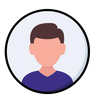
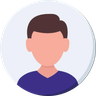
Index and practice page fixed, testimonial image fixed and practice page heading fixed -v150

Changed region(s): [[0.0312, 0.0625, 1.0, 1.0]]

diff --git a/index.html b/index.html
@@ -277,8 +277,8 @@
       // assets/avatar-girl.png, resized copies of his uploads for the
       // 48px display). They fill the coloured circle, which stays
       // behind them as the frame.
-      var BOY_IMG = '<img src="assets/avatar-boy.png" alt="" decoding="async" style="width:100%;height:100%;border-radius:50%;object-fit:cover;display:block">';
-      var GIRL_IMG = '<img src="assets/avatar-girl.png" alt="" decoding="async" style="width:100%;height:100%;border-radius:50%;object-fit:cover;display:block">';
+      var BOY_IMG = '<img src="assets/avatar-boy.png?v=1" alt="" decoding="async" style="width:100%;height:100%;border-radius:50%;object-fit:cover;display:block">';
+      var GIRL_IMG = '<img src="assets/avatar-girl.png?v=1" alt="" decoding="async" style="width:100%;height:100%;border-radius:50%;object-fit:cover;display:block">';
       var slides = list.map(function (t, i) {
         var s = document.createElement("div");
         s.className = "t-slide";

diff --git a/practice.html b/practice.html
@@ -202,6 +202,13 @@ body.tab-hidden #view-test > *:not(.modal-backdrop) {
    back-to-top button stays visible during the test instead. */
 body.test-active .wa-float { display: none; }
 
+/* During a test: hide the page header ("Practice Tests / Test
+   Yourself / Timed MCQ tests ...") as well, so the test starts at
+   the top of the viewport. It returns as soon as the test view
+   closes, on submit or on end, because the test-active class is
+   tied to the test view itself. */
+body.test-active .page-head { display: none; }
+
 .qcard.locked .qopt { cursor: default; }
 .qcard.locked .qopt:not(:has(input:checked)) { opacity: 0.72; }
 .qcard.locked .qopt:not(:has(input:checked)):hover { border-color: var(--color-hairline); }
